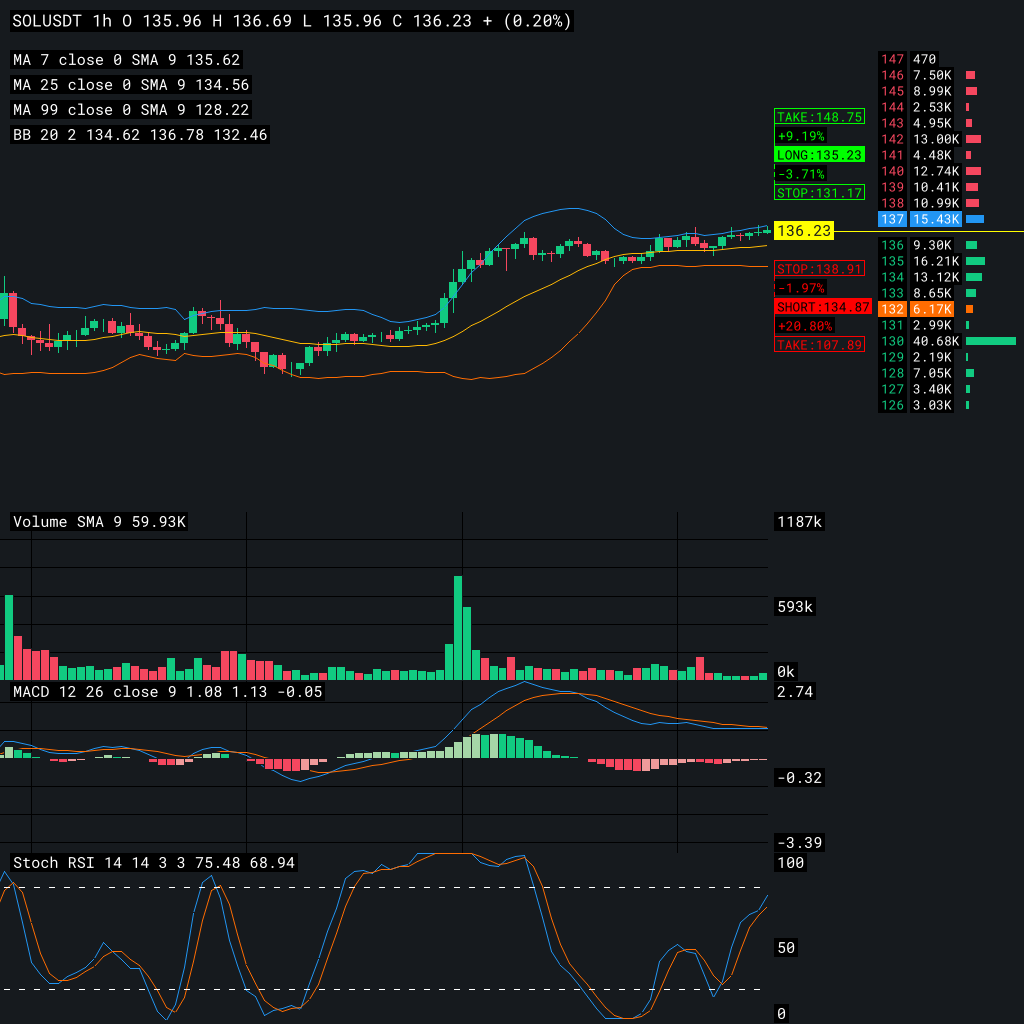
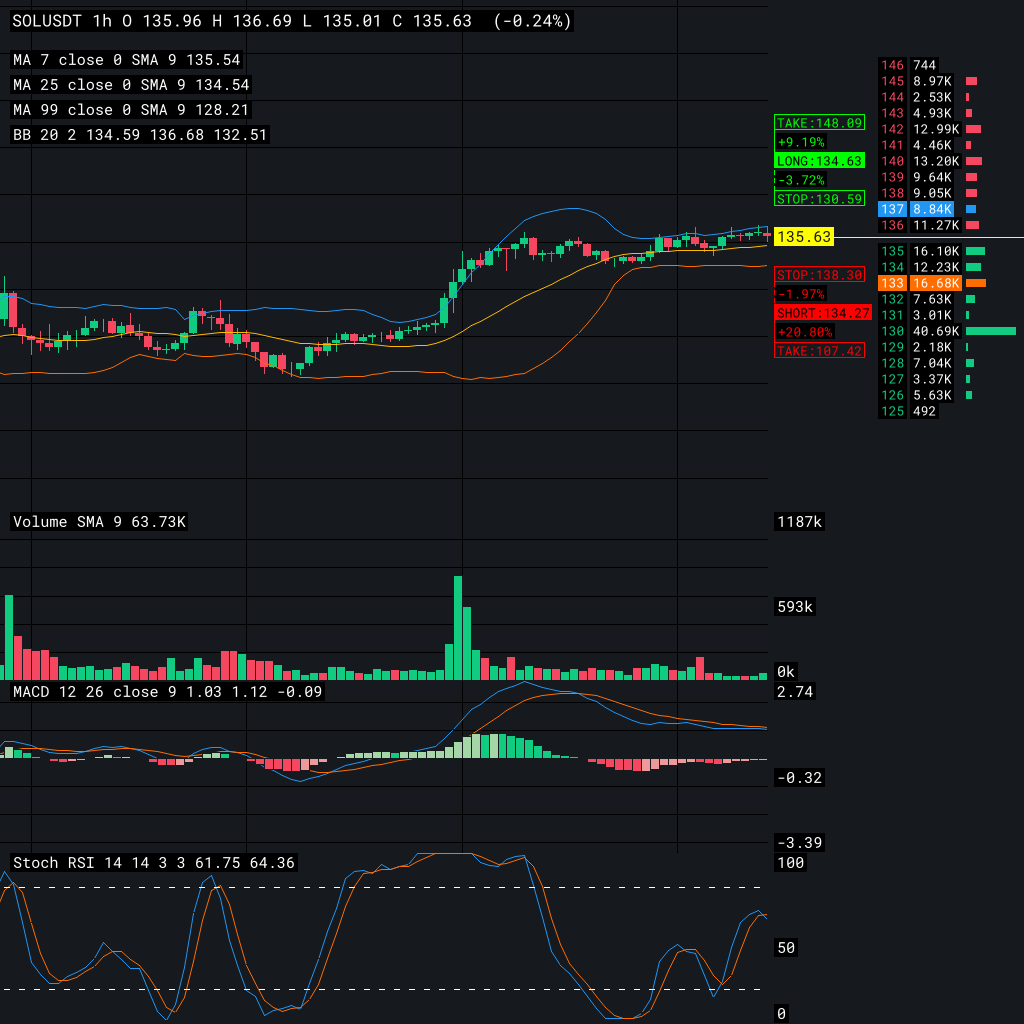
feat: add mesh

diff --git a/feeder/src/charts/painters.rs b/feeder/src/charts/painters.rs
@@ -680,6 +680,13 @@ pub fn draw_candlesticks<F>(
 where
     F: Fn(bool, bool) -> RGBAColor,
 {
+    chart
+        .configure_mesh()
+        .light_line_style(BLACK)
+        .x_max_light_lines(1)
+        .y_max_light_lines(1)
+        .draw()?;
+
     chart.draw_series(candle_data.iter().map(|k| {
         let time = parse_kline_time(k.open_time, timezone);
         let open = k.open_price.parse::<f32>().unwrap();
